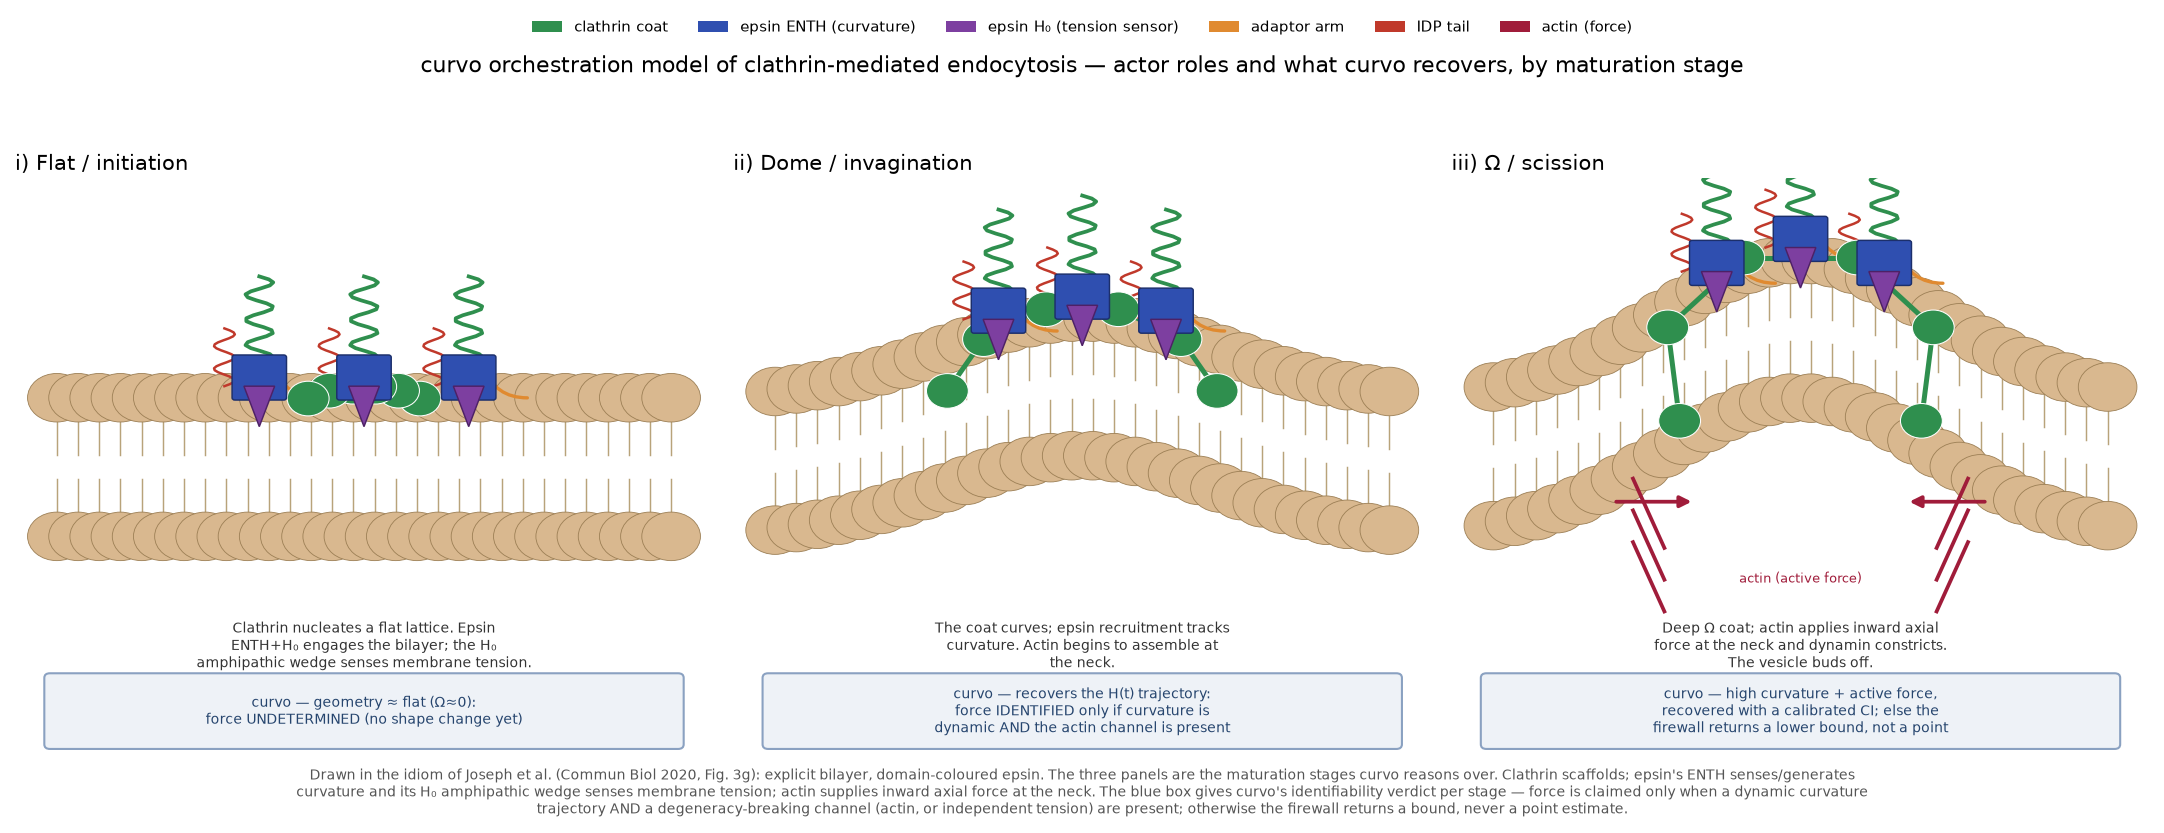
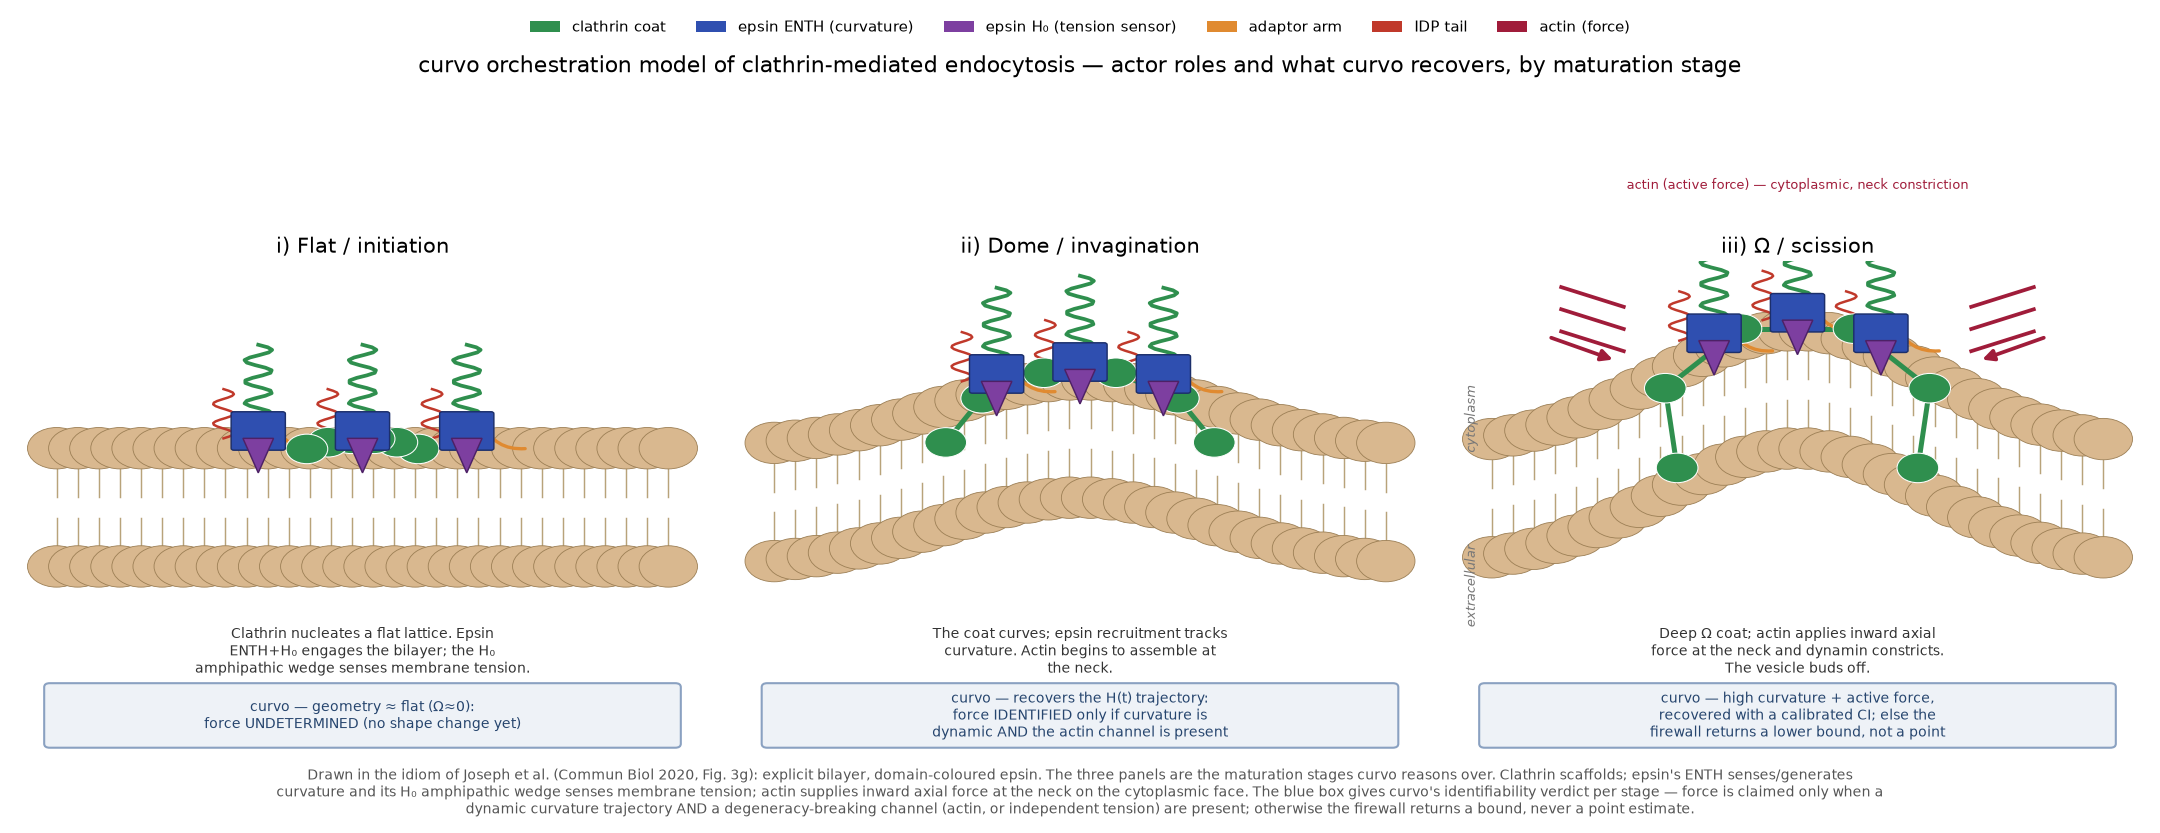
fix: epsin orchestration schematic — actin on the cytoplasmic face
Panel iii (Omega/scission) drew the actin filaments, force arrows, and label
below the membrane baseline (ybase-0.02 .. -0.20), i.e. on the extracellular
side. Actin is cytoplasmic; the coat bulges upward with cytoplasm on top, so the
bundles must sit above the upper leaflet. Same error class fixed earlier on the
PICALM figure.

- Actin bundles now drawn above the upper-leaflet head surface at each neck
  (top(nx)+h+lift); force arrows push inward+down toward the neck (constriction).
- Label 'actin (active force) — cytoplasmic, neck constriction' above the coat.
- Added cytoplasm/extracellular side cues; footer notes 'on the cytoplasmic face'.
- Captured the previously-inline generator as a reproducible on-disk script
  validation/realdata/render_orchestration_schematic.py (0 text overlaps).

diff --git a/validation/realdata/render_orchestration_schematic.py b/validation/realdata/render_orchestration_schematic.py
@@ -1,0 +1,151 @@
+"""
+render_orchestration_schematic.py — the three-stage CME orchestration schematic.
+
+Drawn in the visual idiom of Joseph et al. (Commun Biol 2020, Fig. 3g): an
+explicit phospholipid bilayer with domain-coloured epsin. The three panels are
+the maturation stages curvo reasons over (flat -> dome -> Omega/scission),
+showing which actor does what and what curvo can or cannot recover at each stage.
+
+The membrane bulges upward with the clathrin coat on the cytoplasmic (top) face,
+so actin — a cytoplasmic filament system — is drawn ABOVE the upper leaflet at
+each neck, with force arrows pushing inward toward the neck (constriction).
+cytoplasm/extracellular side cues pin the orientation.
+
+Run:  python -m validation.realdata.render_orchestration_schematic
+Output: outputs/orchestration_schematic.png
+"""
+import os
+
+import numpy as np
+import matplotlib
+matplotlib.use("Agg")
+import matplotlib.pyplot as plt
+import matplotlib as mpl
+from matplotlib.patches import Circle
+
+COL = dict(clathrin="#2f8f4e", enth="#2f4fb0", h0="#7d3fa0", arm="#e08a30",
+           idp="#c0392b", actin="#a01c3a", head="#d9b88f", tail="#b8a37a")
+
+
+def draw_clathrin_lattice(ax, cx, cy, r, span_deg, n_tri=5, color=None):
+    """A curved clathrin lattice arc; span_deg controls how far it wraps."""
+    color = color or COL["clathrin"]
+    a0 = 90 - span_deg / 2
+    a1 = 90 + span_deg / 2
+    angs = np.deg2rad(np.linspace(a0, a1, n_tri))
+    pts = np.array([(cx + r * np.cos(a), cy + r * np.sin(a) - r) for a in angs])
+    for i in range(len(pts) - 1):
+        ax.plot(pts[[i, i + 1], 0], pts[[i, i + 1], 1], color=color, lw=2.4,
+                zorder=5, solid_capstyle="round")
+    for (px, py) in pts:
+        ax.add_patch(Circle((px, py), 0.03, fc=color, ec="white", lw=0.5, zorder=6))
+    return pts
+
+
+def bilayer_bulge(ax, x0, x1, y, bulge, cx, width, n=30, r=0.042, h=0.12):
+    """Explicit bilayer between x0..x1, invaginated upward by a Gaussian bulge
+    centred at cx. Returns the top-leaflet-baseline profile as a callable."""
+    xs = np.linspace(x0, x1, n)
+    for x in xs:
+        d = bulge * np.exp(-((x - cx) / (width * 0.5)) ** 2)
+        yc = y + d
+        ax.add_patch(Circle((x, yc + h), r, fc=COL["head"], ec="#9c7f55", lw=0.4, zorder=2))
+        ax.plot([x, x], [yc + h - r, yc + r * 0.5], color=COL["tail"], lw=0.7, zorder=1)
+        ax.add_patch(Circle((x, yc - h), r, fc=COL["head"], ec="#9c7f55", lw=0.4, zorder=2))
+        ax.plot([x, x], [yc - h + r, yc - r * 0.5], color=COL["tail"], lw=0.7, zorder=1)
+    return lambda x: y + bulge * np.exp(-((x - cx) / (width * 0.5)) ** 2)
+
+
+def epsin_at(ax, x, ymemb_top, reach=0.15):
+    """A cartoon epsin at membrane position x: green clathrin coil, blue ENTH
+    sheet, purple H0 wedge inserted into the upper leaflet, orange arm, red IDP."""
+    tt = np.linspace(0, 1, 30)
+    ax.plot(x + 0.02 * np.sin(tt * 7 * np.pi), ymemb_top + 0.06 + tt * reach,
+            color=COL["clathrin"], lw=1.8, zorder=6)
+    ax.add_patch(mpl.patches.FancyBboxPatch((x - 0.035, ymemb_top + 0.0), 0.07, 0.07,
+        boxstyle="round,pad=0.004", fc=COL["enth"], ec="#1c2f6b", lw=0.7, zorder=6))
+    ax.add_patch(mpl.patches.Polygon(
+        [[x - 0.022, ymemb_top + 0.02], [x + 0.022, ymemb_top + 0.02], [x, ymemb_top - 0.05]],
+        closed=True, fc=COL["h0"], ec="#4d2166", lw=0.7, zorder=7))
+    ax.add_patch(mpl.patches.FancyArrowPatch((x + 0.02, ymemb_top + 0.06), (x + 0.09, ymemb_top + 0.0),
+        connectionstyle="arc3,rad=0.4", arrowstyle="-", lw=1.6, color=COL["arm"], zorder=5))
+    ax.plot(x - 0.05 + 0.015 * np.sin(tt * 5 * np.pi), ymemb_top + 0.02 + tt * 0.10,
+            color=COL["idp"], lw=1.2, zorder=5)
+
+
+def render(out_path="outputs/orchestration_schematic.png"):
+    fig, axes = plt.subplots(1, 3, figsize=(14.5, 5.4))
+    stages = [
+        ("i) Flat / initiation", "flat", 0.0, 60,
+         "Clathrin nucleates a flat lattice. Epsin\nENTH+H\u2080 engages the bilayer; the H\u2080\namphipathic wedge senses membrane tension.",
+         "curvo \u2014 geometry \u2248 flat (\u03a9\u22480):\nforce UNDETERMINED (no shape change yet)"),
+        ("ii) Dome / invagination", "dome", 0.14, 150,
+         "The coat curves; epsin recruitment tracks\ncurvature. Actin begins to assemble at\nthe neck.",
+         "curvo \u2014 recovers the H(t) trajectory:\nforce IDENTIFIED only if curvature is\ndynamic AND the actin channel is present"),
+        ("iii) \u03a9 / scission", "omega", 0.24, 240,
+         "Deep \u03a9 coat; actin applies inward axial\nforce at the neck and dynamin constricts.\nThe vesicle buds off.",
+         "curvo \u2014 high curvature + active force,\nrecovered with a calibrated CI; else the\nfirewall returns a lower bound, not a point"),
+    ]
+    ybase = 0.50
+    cx = 0.5
+    h = 0.12                       # half-thickness used by bilayer_bulge
+    for ax, (title, shape, bulge, span, narr, curvo) in zip(axes, stages):
+        ax.set_xlim(0, 1)
+        ax.set_ylim(0, 1)
+        ax.axis("off")
+        ax.set_title(title, fontsize=10, pad=4)
+        top = bilayer_bulge(ax, 0.06, 0.94, ybase, bulge, cx, 0.55, h=h)
+        ytop = top(cx) + 0.12
+        draw_clathrin_lattice(ax, cx, ytop + 0.02, 0.20 if shape != "flat" else 0.16, span, n_tri=6)
+        dxs = (-0.15, 0.0, 0.15) if shape == "flat" else (-0.12, 0.0, 0.12)
+        for dx in dxs:
+            epsin_at(ax, cx + dx, top(cx + dx) + 0.12)
+        if shape == "omega":
+            # actin is CYTOPLASMIC: draw bundles ABOVE the upper leaflet at each
+            # neck, with force arrows pushing inward toward the neck (constriction).
+            lift = 0.075                       # clear gap above the upper leaflet head
+            for sgn in (-1, 1):
+                nx = cx + sgn * 0.24
+                ny = top(nx) + h               # upper-leaflet head surface at the neck
+                for k in range(3):
+                    ax.plot([nx + sgn * 0.10, nx + sgn * 0.01],
+                            [ny + lift + 0.05 + k * 0.045, ny + lift + 0.01 + k * 0.045],
+                            color=COL["actin"], lw=1.8, zorder=8)
+                # force arrow: inward and down toward the neck, staying above the leaflet
+                ax.add_patch(mpl.patches.FancyArrowPatch(
+                    (nx + sgn * 0.12, ny + lift + 0.04), (nx + sgn * 0.02, ny + lift - 0.01),
+                    arrowstyle="-|>", mutation_scale=11, lw=1.8, color=COL["actin"], zorder=9))
+            ax.text(cx, top(cx) + 0.40, "actin (active force) \u2014 cytoplasmic, neck constriction",
+                    ha="center", va="bottom", fontsize=6.3, color=COL["actin"])
+            # side cues pin which face of the bilayer is which
+            ax.text(0.03, ybase + 0.18, "cytoplasm", rotation=90, va="center", ha="center",
+                    fontsize=6.0, color="#777", style="italic")
+            ax.text(0.03, ybase - 0.16, "extracellular", rotation=90, va="center", ha="center",
+                    fontsize=6.0, color="#777", style="italic")
+        ax.text(0.5, 0.26, narr, ha="center", va="top", fontsize=6.9, color="#333")
+        ax.add_patch(mpl.patches.FancyBboxPatch((0.05, 0.02), 0.90, 0.115, boxstyle="round,pad=0.008",
+            fc="#eef2f7", ec="#8aa1c1", lw=1.0, zorder=1))
+        ax.text(0.5, 0.077, curvo, ha="center", va="center", fontsize=6.5, color="#26456e", zorder=2)
+
+    handles = [mpl.patches.Patch(fc=COL[k], label=lbl) for k, lbl in
+               [("clathrin", "clathrin coat"), ("enth", "epsin ENTH (curvature)"),
+                ("h0", "epsin H\u2080 (tension sensor)"), ("arm", "adaptor arm"),
+                ("idp", "IDP tail"), ("actin", "actin (force)")]]
+    fig.legend(handles=handles, loc="upper center", ncol=6, frameon=False, fontsize=7.2,
+               bbox_to_anchor=(0.5, 1.0))
+    fig.suptitle("curvo orchestration model of clathrin-mediated endocytosis \u2014 actor roles and what curvo recovers, by maturation stage",
+                 y=0.94, fontsize=10.5)
+    fig.text(0.5, 0.004,
+             "Drawn in the idiom of Joseph et al. (Commun Biol 2020, Fig. 3g): explicit bilayer, domain-coloured epsin. The three panels are the maturation stages curvo reasons over. Clathrin scaffolds; epsin's ENTH senses/generates\n"
+             "curvature and its H\u2080 amphipathic wedge senses membrane tension; actin supplies inward axial force at the neck on the cytoplasmic face. The blue box gives curvo's identifiability verdict per stage \u2014 force is claimed only when a\n"
+             "dynamic curvature trajectory AND a degeneracy-breaking channel (actin, or independent tension) are present; otherwise the firewall returns a bound, never a point estimate.",
+             ha="center", fontsize=6.5, color="#555")
+    fig.tight_layout(rect=[0, 0.05, 1, 0.895])
+    os.makedirs(os.path.dirname(out_path) or ".", exist_ok=True)
+    fig.savefig(out_path, dpi=150, bbox_inches="tight")
+    return fig
+
+
+if __name__ == "__main__":
+    render()
+    print("wrote outputs/orchestration_schematic.png")
